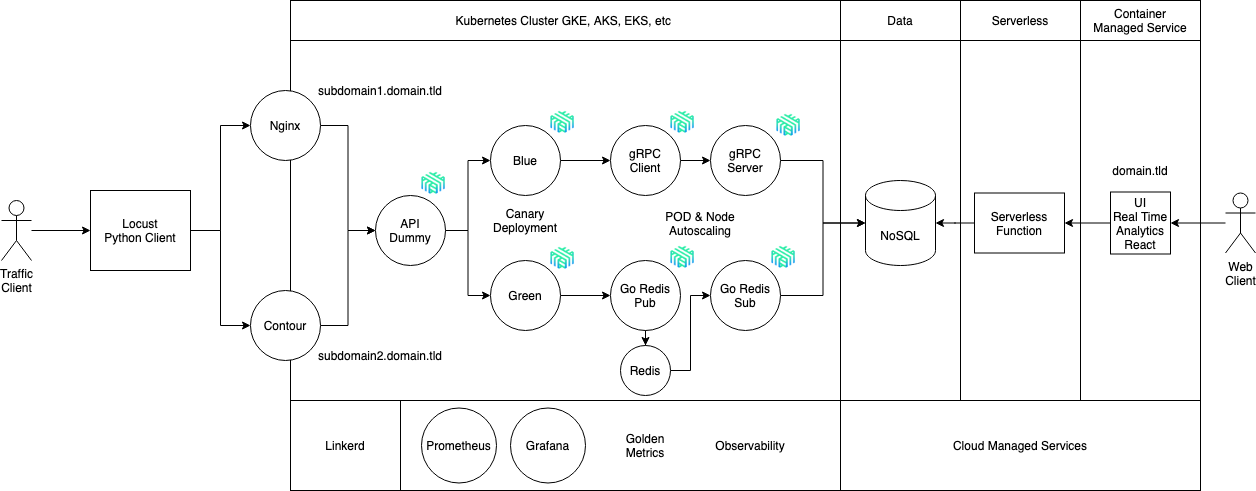
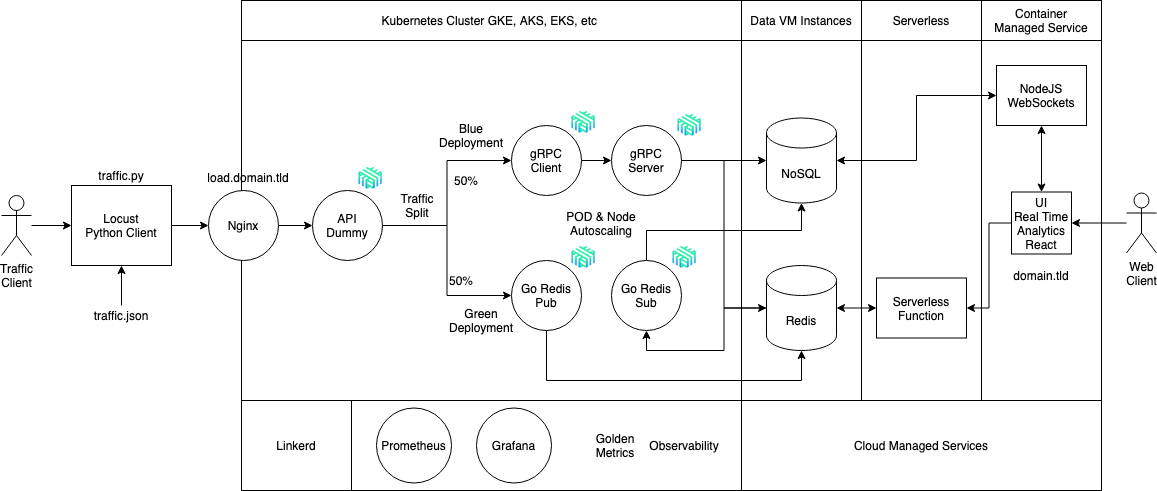
diagram changes project1 v2

diff --git a/lang/en/projects/project1v2/project1.md b/lang/en/projects/project1v2/project1.md
@@ -68,7 +68,7 @@ Kubernetes will be in charge of the container orchestration of the different par
 
 ### LOAD BALANCERS
 This part is related to the Layer 7 Load Balancers(Kubernetes Ingress) configuration in the Kubernetes cluster using helm or kubectl. In this project we will two choose two of the following options:
-- nginx-ingress
+- nginx-ingress(Fully tested at the moment)
 - Contour
 - Gloo
 - Traefik
@@ -82,18 +82,16 @@ The project consist in compare the performace and advantages of the two paths im
   
 **First path:**  
 - Traffic Generator  
-- Ingress #1  
-- app1-srv
-- app1-deployment-golang-grpc-client  
-- app1-deployment-golang-grpc-server
+- Ingress  
+- Golang gRPC Client  
+- Golang gRPC Service
 - Write to NoSQL Database 
 
 **Second path:**  
 - Traffic Generator  
-- Ingress #2  
-- app2-srv  
-- app2-deploy-golang-redis-pub  
-- app2-deploy-golang-redis-sub  
+- Ingress  
+- Redis Client Pub/Sub  
+- Redis Server Pub/Sub
 - Write to NoSQL Database  
   
 **Note:** Will be desired to implement vertical and horizontal autoscaling, coroutines and threads according to the nature of the service to implement. This implemention is open but have to be justified in context of best practices.
@@ -110,7 +108,7 @@ This project was based on a copy of structure of the Instagram Architecture, bec
   
 **MongoDB or other:** Is a NoSQL Document database that stores the information using JSON data format.
   
-**Redis:** Is a NoSQL Key-Value database that implements different data types like list, sets, sorted sets, etc.
+**Redis:** Is a NoSQL Key-Value database that implements different data types like list, sets, sorted sets, etc. Could be used to implement a pub/sub service to write into a NoSQL Database.
   
 This databases will be installed in a instance that have to be accesible in the VPC of the Kubernetes Cluster.
 
